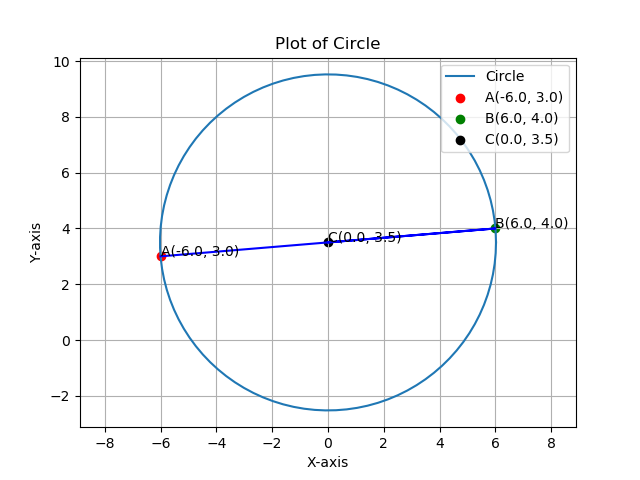
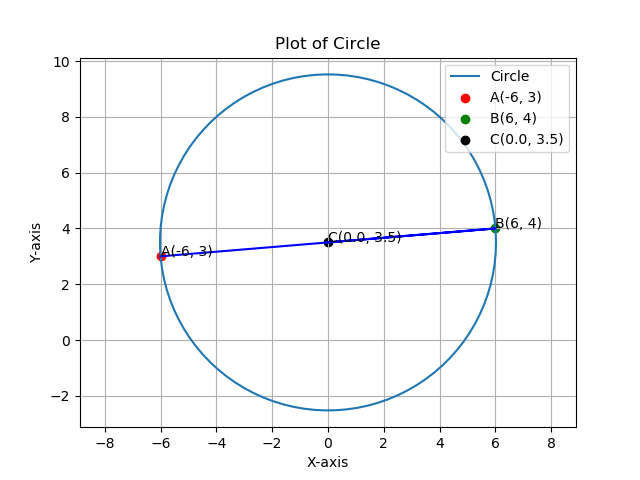
Add existing files

Changed region(s): [[0.6875, 0.125, 0.875, 0.3125], [0.8125, 0.4375, 0.9062, 0.5], [0.3125, 0.5, 0.375, 0.5312]]

diff --git a/Assignment-3/codes/plot.py b/Assignment-3/codes/plot.py
@@ -1,24 +1,29 @@
 import matplotlib.pyplot as plt
 import numpy as np
+from ctypes import *
 
-file_path = 'points.txt'
+secForm = CDLL('./secForm.so')
+
+x1 = -6
+y1 = 3
+x2 = 6
+y2 = 4
+k = 1
+
+secn = secForm.secForm
+secn.restype = c_float
+
+x = secn(c_float(x1), c_float(x2), c_float(k))
+y = secn(c_float(y1), c_float(y2), c_float(k))
+print(x, y)
+
+X = [x1, x2, x]
+Y = [y1, y2, y]
 
 # Lists to store x and y coordinates
-x = []
-y = []
-
-# Read the coordinates from the file
-with open(file_path, 'r') as file:
-    for line in file:
-        # Split the line into x and y values using space as the delimiter
-        values = line.split()  # By default, split() uses whitespace as the delimiter
-        # Convert values to float and append to lists
-        x.append(float(values[0]))
-        y.append(float(values[1]))
-
-A = np.array([x[0], y[0]]).reshape(-1, 1)
-B = np.array([x[1], y[1]]).reshape(-1, 1)
-C = np.array([x[2], y[2]]).reshape(-1, 1)
+A = np.array(([x1, y1])).reshape(-1, 1)
+B = np.array(([x2, y2])).reshape(-1, 1)
+C = np.array(([x, y])).reshape(-1, 1)
 
 txtA = str('A' + str(tuple(A.flatten())))
 txtB = str('B' + str(tuple(B.flatten())))
@@ -44,12 +49,14 @@ def plot_circle(center, point_on_circle):
     # Plot the circle 
     plt.plot(x_circle, y_circle, label='Circle')
 
-# Plot the coordinates
+# Plot the Circle
 plot_circle(C, A)
-plt.plot(x, y, linestyle='-', c = 'b') # Customize color, linestyle, etc.
+plt.plot(X, Y, linestyle='-', c = 'b') # Plotting Diameter
 
-for i in range(len(x)):
-    plt.scatter(x[i], y[i], color=colors[i], label=labels[i])
+
+# Plotting Points
+for i in range(len(X)):
+    plt.scatter(X[i], Y[i], color=colors[i], label=labels[i])
 
 plt.annotate(txtA, xy = A)
 plt.annotate(txtB, xy = B)

diff --git a/Assignment-3/tables/table.tex b/Assignment-3/tables/table.tex
@@ -2,10 +2,10 @@
     \hline
     \textbf{Point} & \textbf{Description}\\ 
     \hline
-    \vec{A} \brak{-6, 3} & First end-point of the circle's diameter\\
+    $\vec{A}$ \brak{-6, 3} & First end-point of the circle's diameter\\
     \hline 
-    \vec{B} \brak{6, 4} & Second end-point of the circle's diameter\\
+    $\vec{B}$ \brak{6, 4} & Second end-point of the circle's diameter\\
     \hline
-    \vec{C} \brak{x, y} & Centre of the circle\\
+    $\vec{C}$ \brak{x, y} & Centre of the circle\\
     \hline   
     \end{tabular}

diff --git a/Assignment-3/main.tex b/Assignment-3/main.tex
@@ -2,7 +2,7 @@
 \let\negthickspace\undefined
 \documentclass[journal]{IEEEtran}
 \usepackage[a5paper, margin=10mm, onecolumn]{geometry}
-%\usepackage{lmodern} % Ensure lmodern is loaded for pdflatex
+\usepackage{lmodern} % Ensure lmodern is loaded for pdflatex
 \usepackage{tfrupee} % Include tfrupee package
 
 \setlength{\headheight}{1cm} % Set the height of the header box

diff --git a/Assignment-3/codes/secForm.c b/Assignment-3/codes/secForm.c
@@ -1,0 +1,5 @@
+float secForm(float n1, float n2, float k) {
+	return ((k * n2 + n1)/(k + 1));
+}
+
+int main() {}
